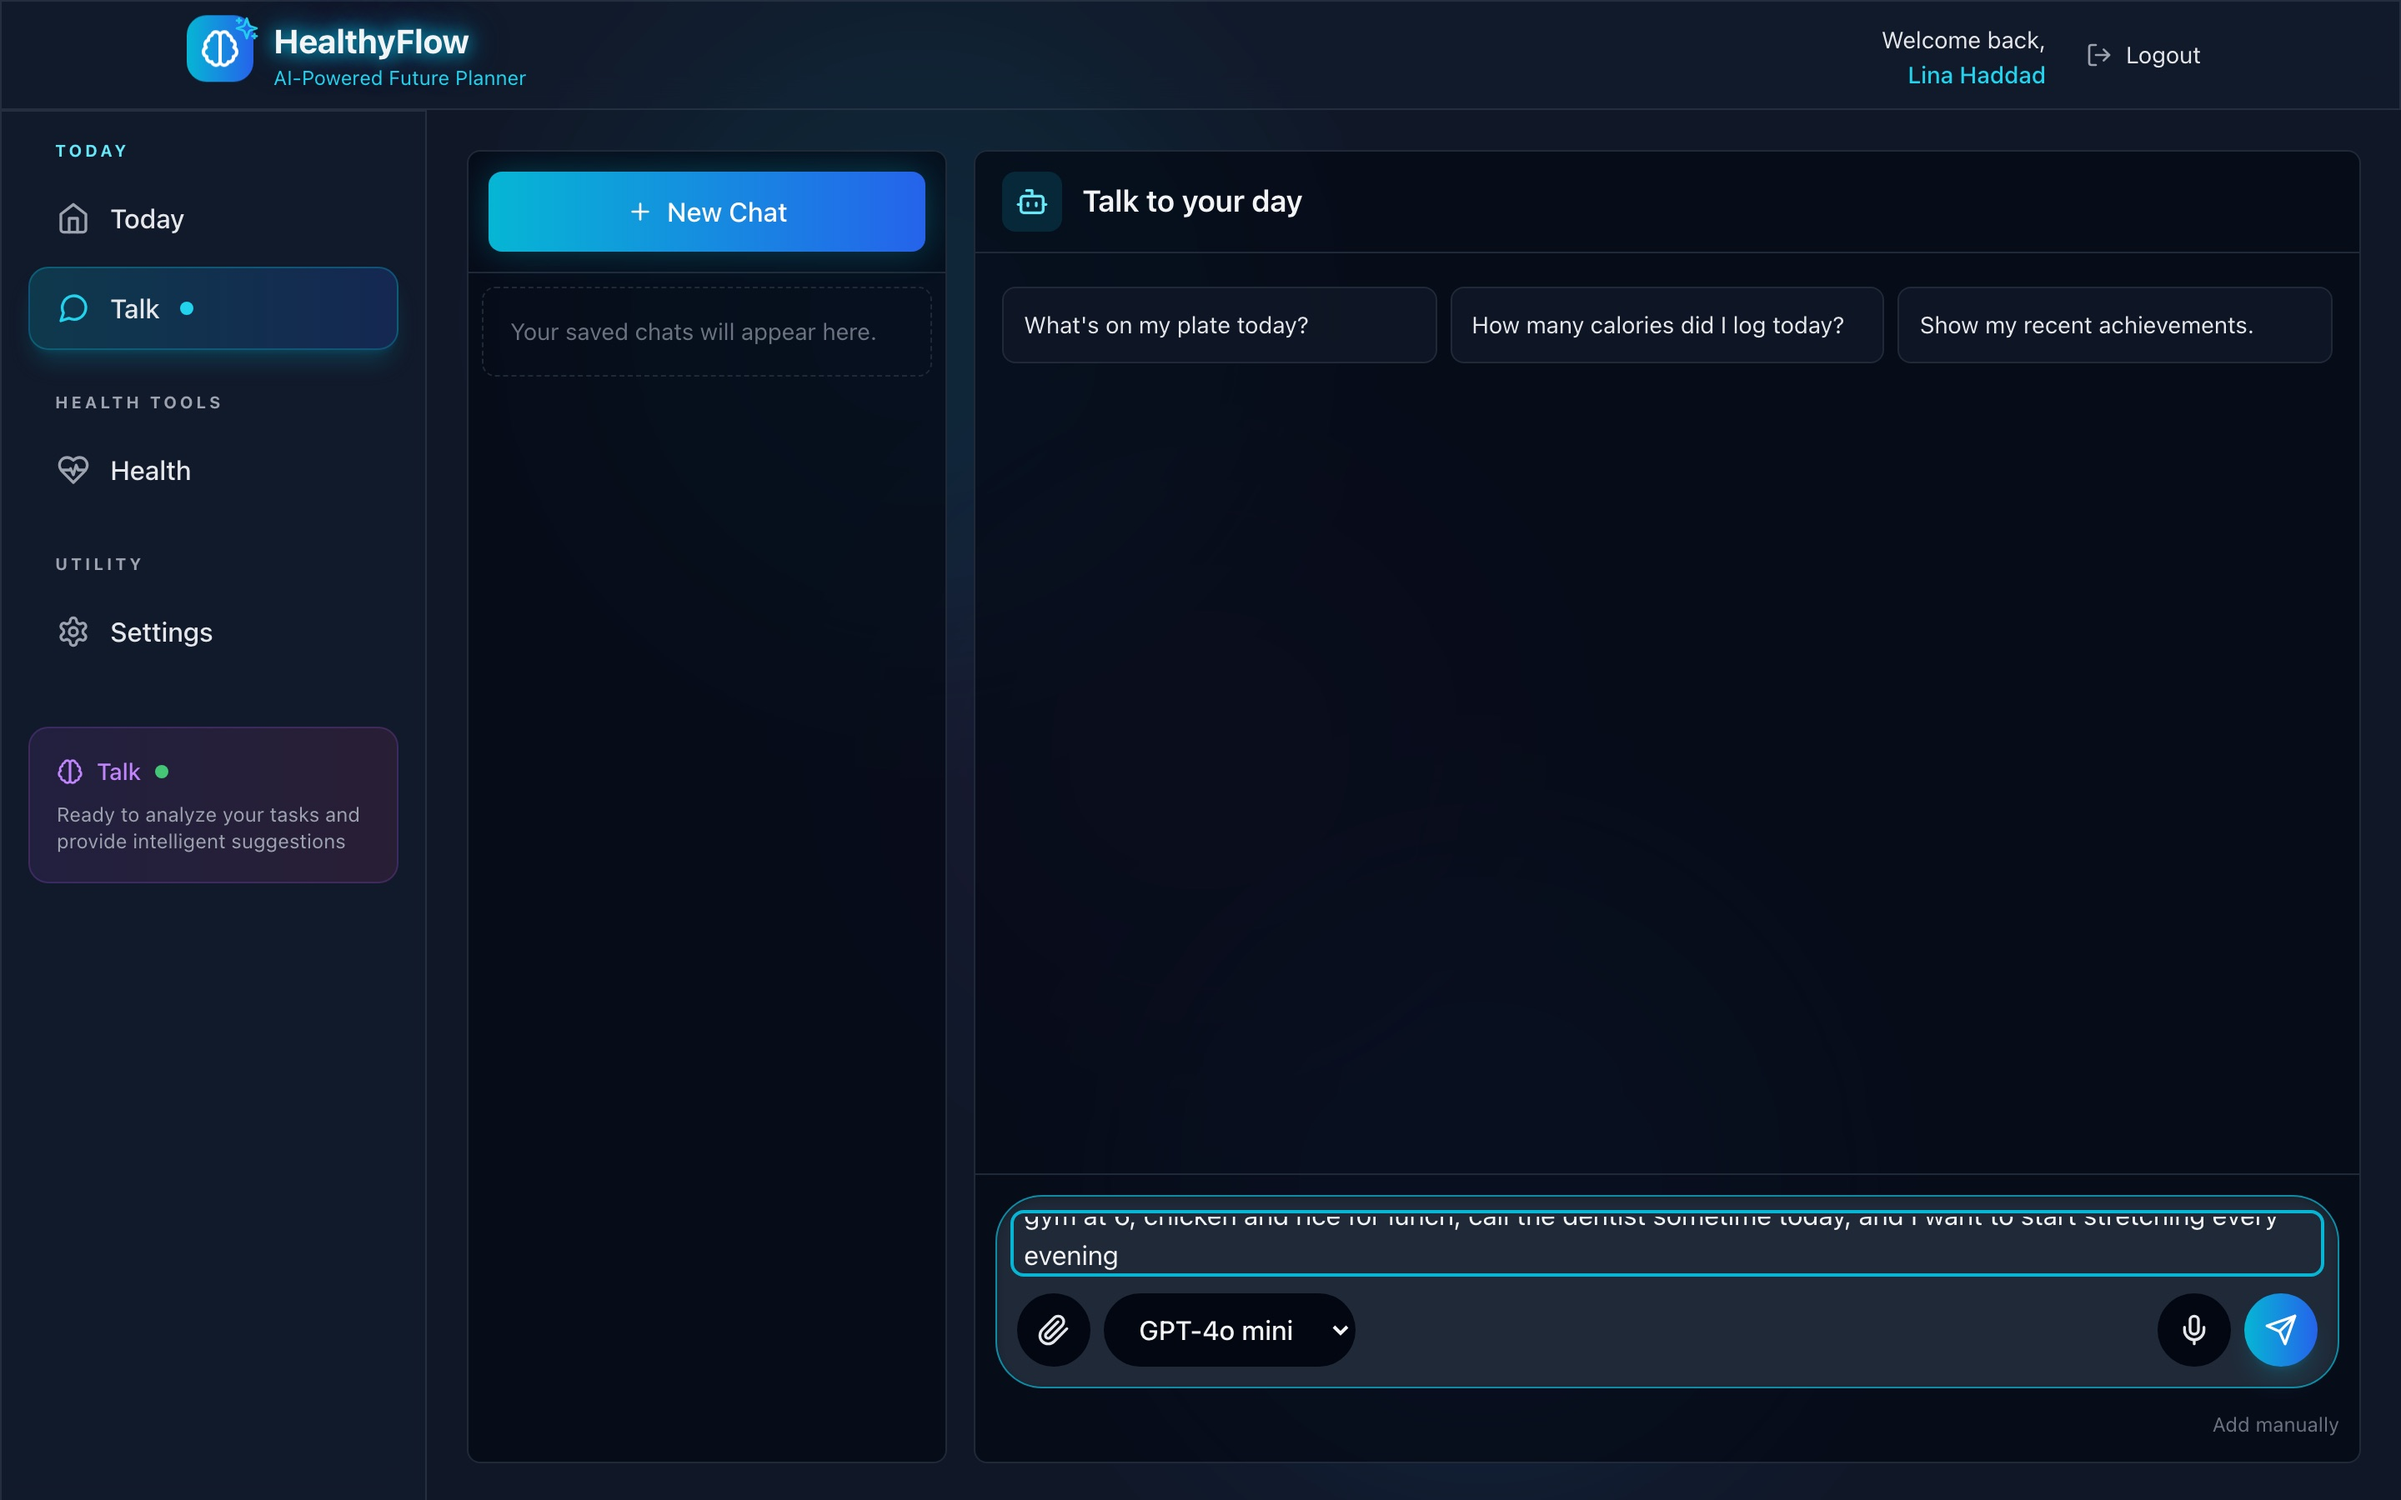
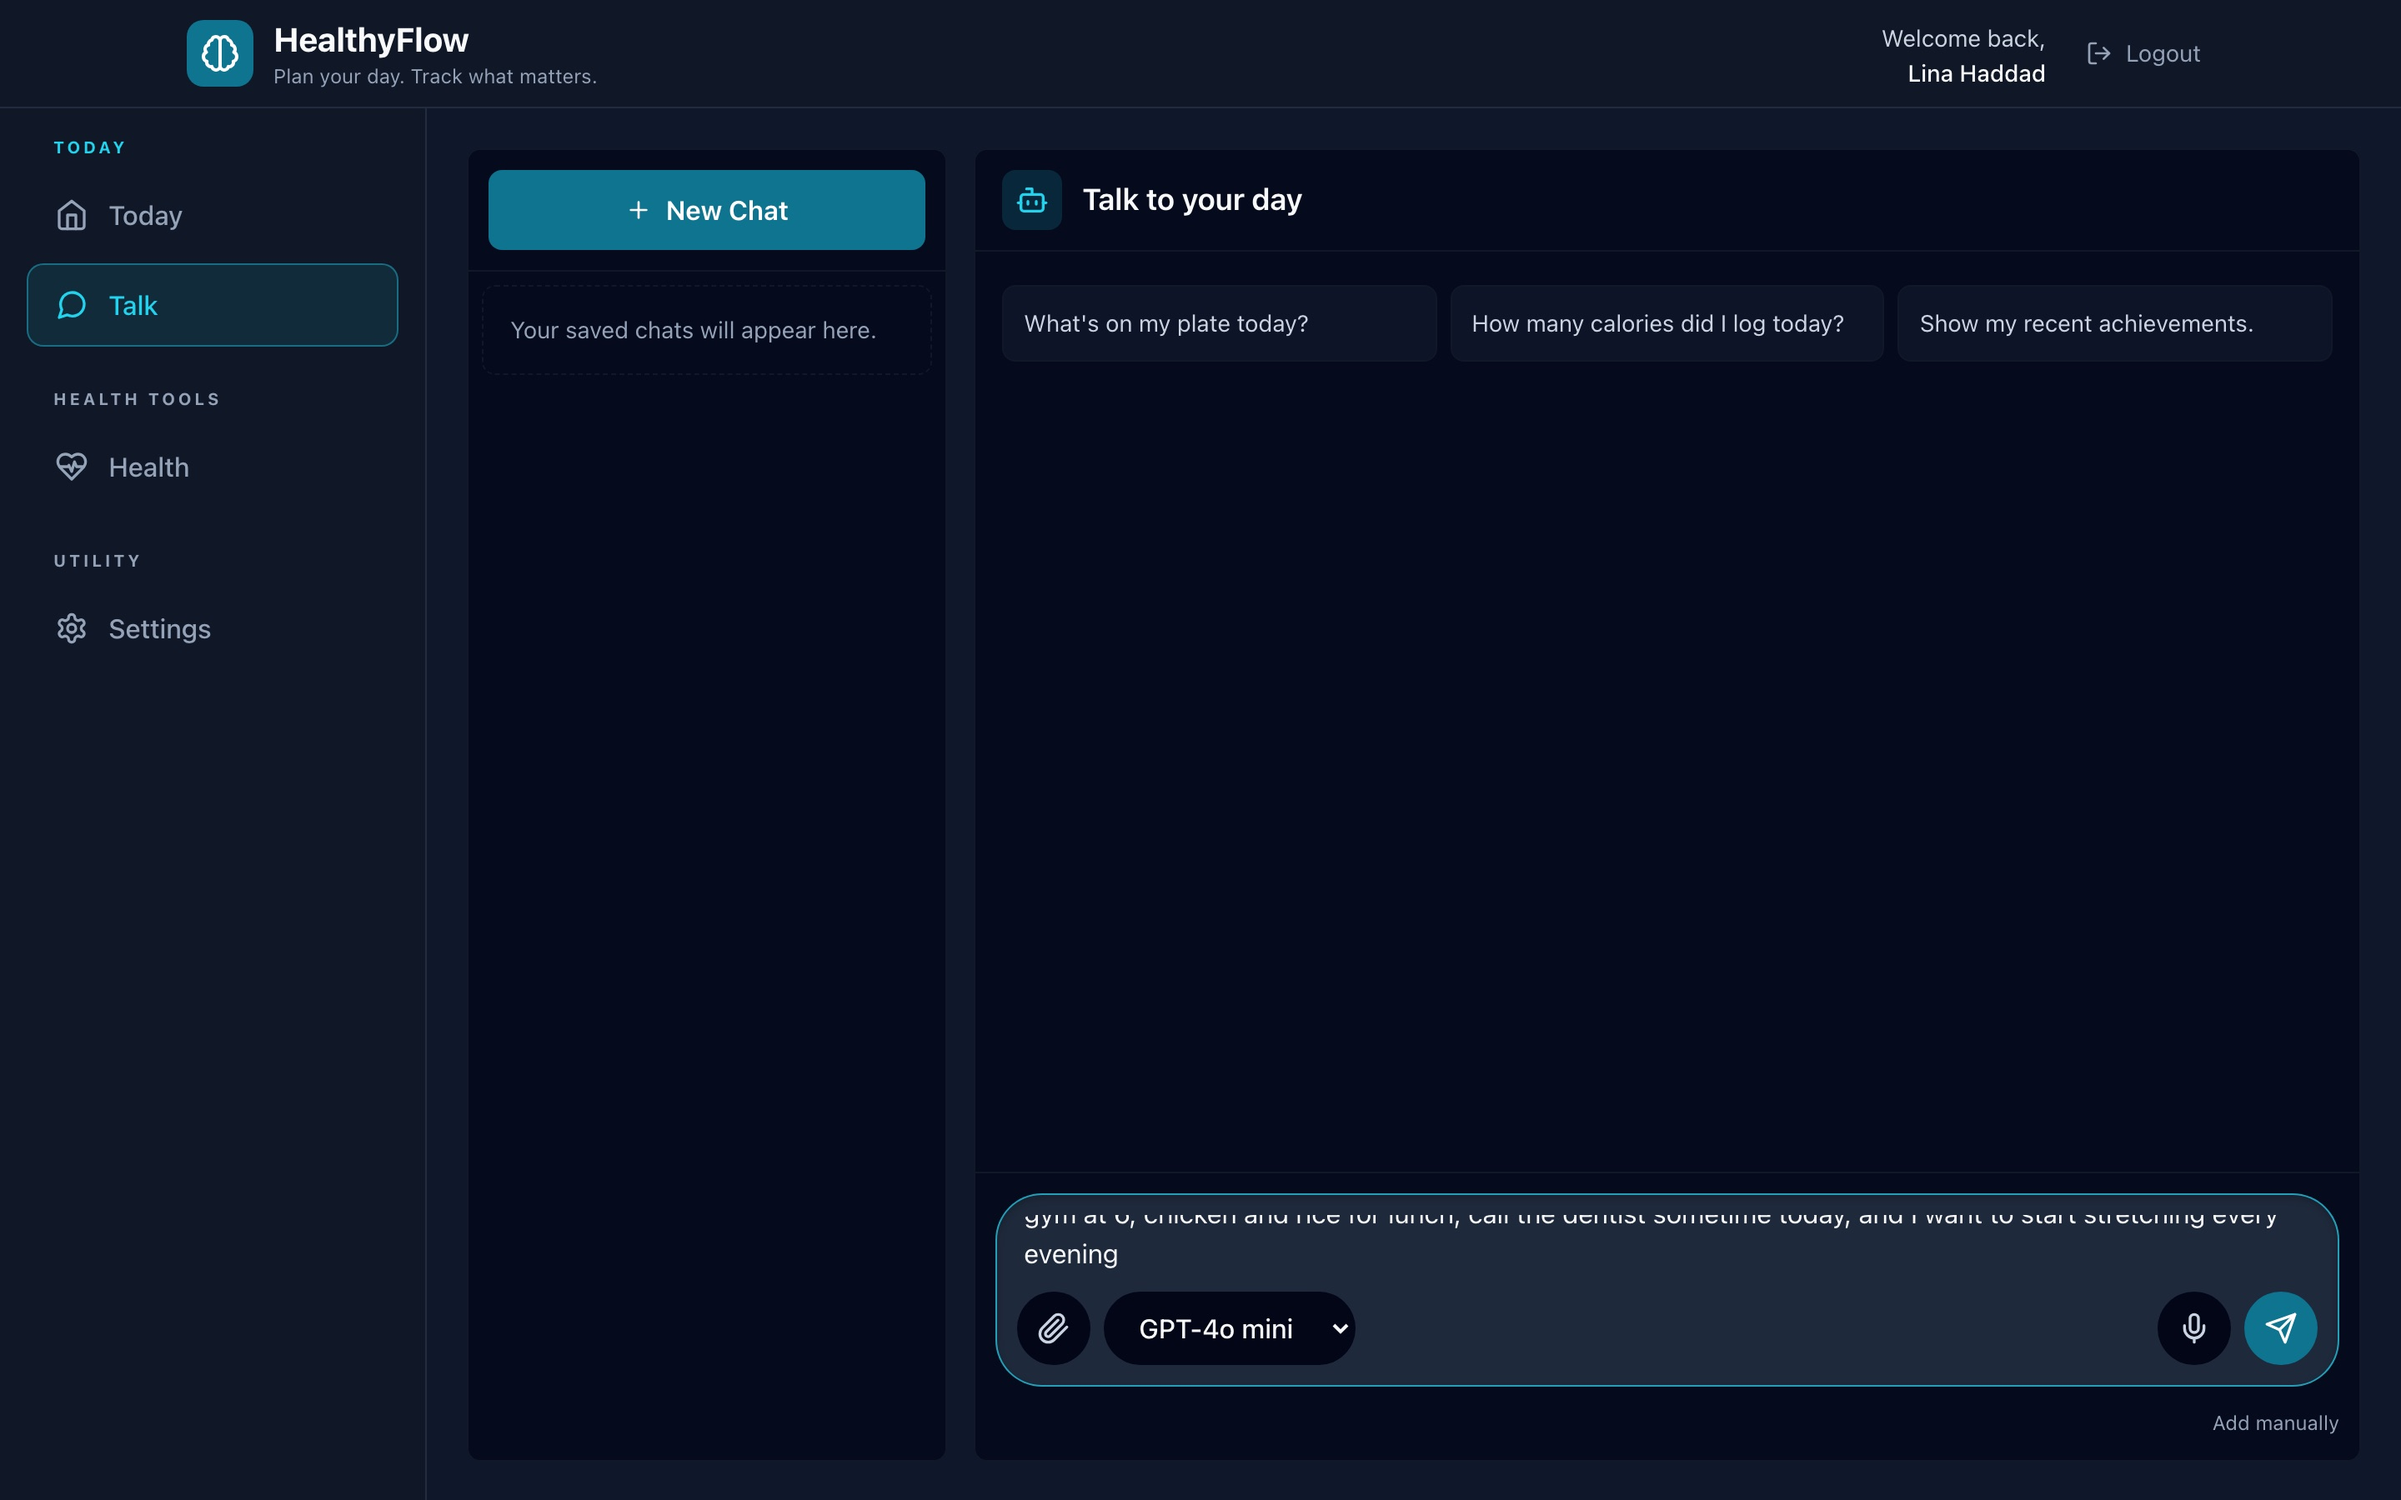
chore: recapture landing screenshots against the #151 visual system
The #151 merge rewrote Layout, DayTimeline and TaskCard, which restaled the
shots taken before it: the header tagline changed, the sidebar AI status box
was retired, and category chips are now capitalised.

Re-verified the FEATURES.md claims the merge could have invalidated - settings
schema unchanged, still no Supabase realtime channels, service worker still
503s API calls offline, Week still flag-off in production.

diff --git a/LEDGER.md b/LEDGER.md
@@ -1,3 +1,9 @@
+### 2026-07-28 13:20 — `claude/app-launch-readiness-164e9d`
+
+Merged main (the #151 responsive visual system) into the launch-readiness branch and recaptured the landing screenshots against it. #151 rewrote Layout, DayTimeline and TaskCard, so the shots taken an hour earlier were already stale — the new tagline, the retired sidebar AI box and the capitalised category chips all show now. Re-verified the FEATURES.md claims that could have been invalidated by the merge: the settings schema still matches, there are still no Supabase realtime channels, and the service worker still returns 503 for API calls. Week View remains flag-off in production, so the landing page correctly still says nothing about it.
+
+---
+
 ### 2026-07-28 13:01 — `codex/151-responsive-visual-system`
 
 Normalized HealthyFlow around a semantic, contrast-safe visual system shared by Midnight and White themes across Login, Today, Talk, Add, Health, Nutrition, Workouts, Progress, and Settings. Shared category presentation now follows the canonical six-value Zod contract, completion feedback is quiet and undoable, text selection and reduced-motion behavior are preserved, and the hidden Week View remains untouched. Responsive baselines cover every visible primary surface at desktop, compact, and mobile widths, with focused accessibility and interaction regressions alongside them.
